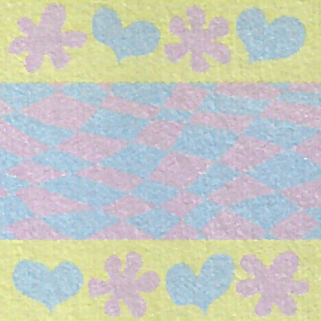
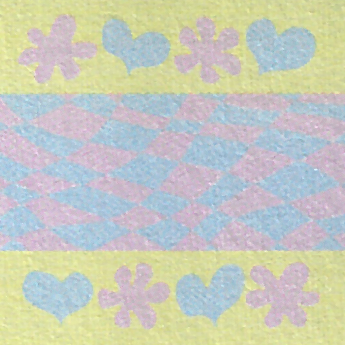
Increase the size of the background image
The dot matrix is also properly centered now.

diff --git a/src/tamatool.c b/src/tamatool.c
@@ -52,16 +52,17 @@
 #define ROM_NOT_FOUND_TITLE		"Tamagotchi ROM not found"
 #define ROM_NOT_FOUND_MSG		"You need to place a Tamagotchi P1 ROM called \"rom.bin\" inside TamaTool's folder/package first !"
 
-#define DEFAULT_WINDOW_SIZE		321
+#define DEFAULT_WINDOW_SIZE		345
 
-#define DEFAULT_LCD_OFFSET_X		1
-#define DEFAULT_LCD_OFFSET_Y		82
+#define DEFAULT_LCD_SIZE		321
+#define DEFAULT_LCD_OFFSET_X		12
+#define DEFAULT_LCD_OFFSET_Y		93
 
 #define ICON_NUM			8
 #define ICON_SRC_SIZE			64
 #define DEFAULT_ICON_DEST_SIZE		64
-#define DEFAULT_ICON_OFFSET_X		25
-#define DEFAULT_ICON_OFFSET_Y		14
+#define DEFAULT_ICON_OFFSET_X		35
+#define DEFAULT_ICON_OFFSET_Y		25
 #define DEFAULT_ICON_STRIDE_X		71
 #define DEFAULT_ICON_STRIDE_Y		242
 
@@ -267,17 +268,20 @@ static void hal_play_frequency(bool_t en)
 
 static void compute_layout(uint8_t stride)
 {
+	uint16_t lcd_size;
+
 	pixel_stride = stride;
 	pixel_size = pixel_stride - pixel_stride/10;
+	lcd_size = pixel_stride * (LCD_WIDTH + 1) - pixel_size;
 
-	window_size = pixel_stride * (LCD_WIDTH + 1) - pixel_size;
-	lcd_offset_x = pixel_stride - pixel_size;
-	lcd_offset_y = (window_size * DEFAULT_LCD_OFFSET_Y)/DEFAULT_WINDOW_SIZE;
-	icon_dest_size = (window_size * DEFAULT_ICON_DEST_SIZE)/DEFAULT_WINDOW_SIZE;
-	icon_offset_x = (window_size * DEFAULT_ICON_OFFSET_X)/DEFAULT_WINDOW_SIZE;
-	icon_offset_y = (window_size * DEFAULT_ICON_OFFSET_Y)/DEFAULT_WINDOW_SIZE;
-	icon_stride_x = (window_size * DEFAULT_ICON_STRIDE_X)/DEFAULT_WINDOW_SIZE;
-	icon_stride_y = (window_size * DEFAULT_ICON_STRIDE_Y)/DEFAULT_WINDOW_SIZE;
+	window_size = (lcd_size * DEFAULT_WINDOW_SIZE)/DEFAULT_LCD_SIZE;
+	lcd_offset_x = (lcd_size * DEFAULT_LCD_OFFSET_X)/DEFAULT_LCD_SIZE + pixel_stride - pixel_size;
+	lcd_offset_y = (lcd_size * DEFAULT_LCD_OFFSET_Y)/DEFAULT_LCD_SIZE;
+	icon_dest_size = (lcd_size * DEFAULT_ICON_DEST_SIZE)/DEFAULT_LCD_SIZE;
+	icon_offset_x = (lcd_size * DEFAULT_ICON_OFFSET_X)/DEFAULT_LCD_SIZE;
+	icon_offset_y = (lcd_size * DEFAULT_ICON_OFFSET_Y)/DEFAULT_LCD_SIZE;
+	icon_stride_x = (lcd_size * DEFAULT_ICON_STRIDE_X)/DEFAULT_LCD_SIZE;
+	icon_stride_y = (lcd_size * DEFAULT_ICON_STRIDE_Y)/DEFAULT_LCD_SIZE;
 
 	pixel_alpha_on = DEFAULT_LCD_ALPHA_ON;
 	pixel_alpha_off = (pixel_size != pixel_stride) ? DEFAULT_LCD_ALPHA_OFF : 0;
